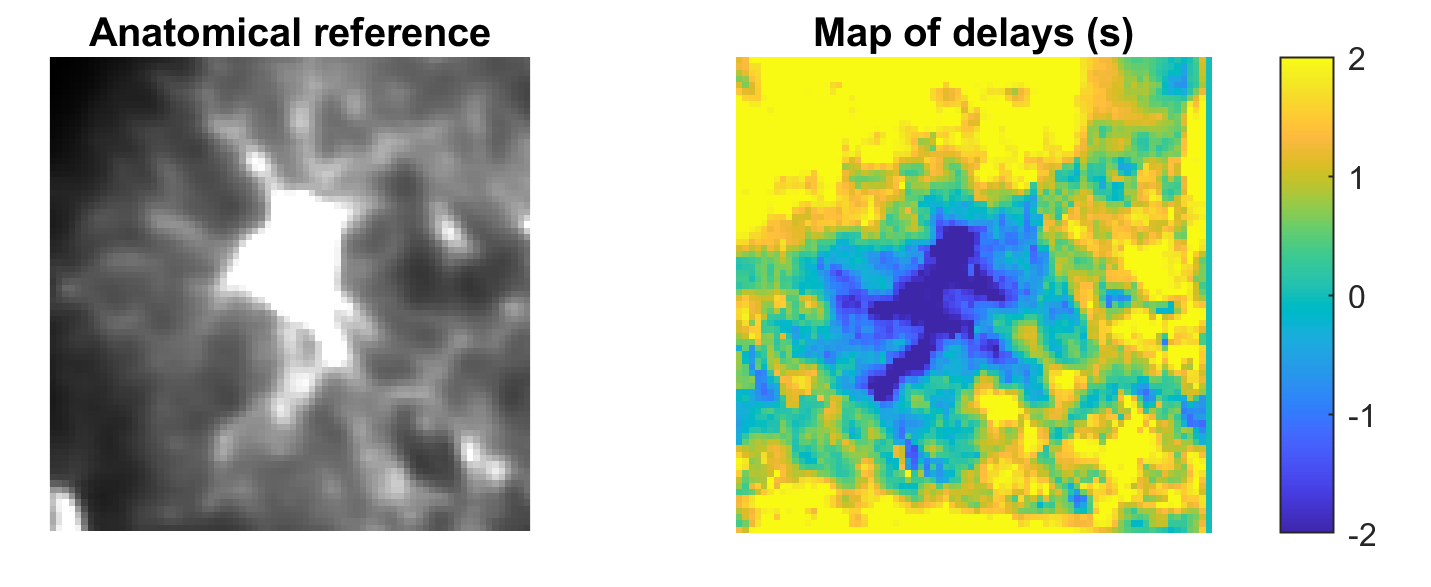
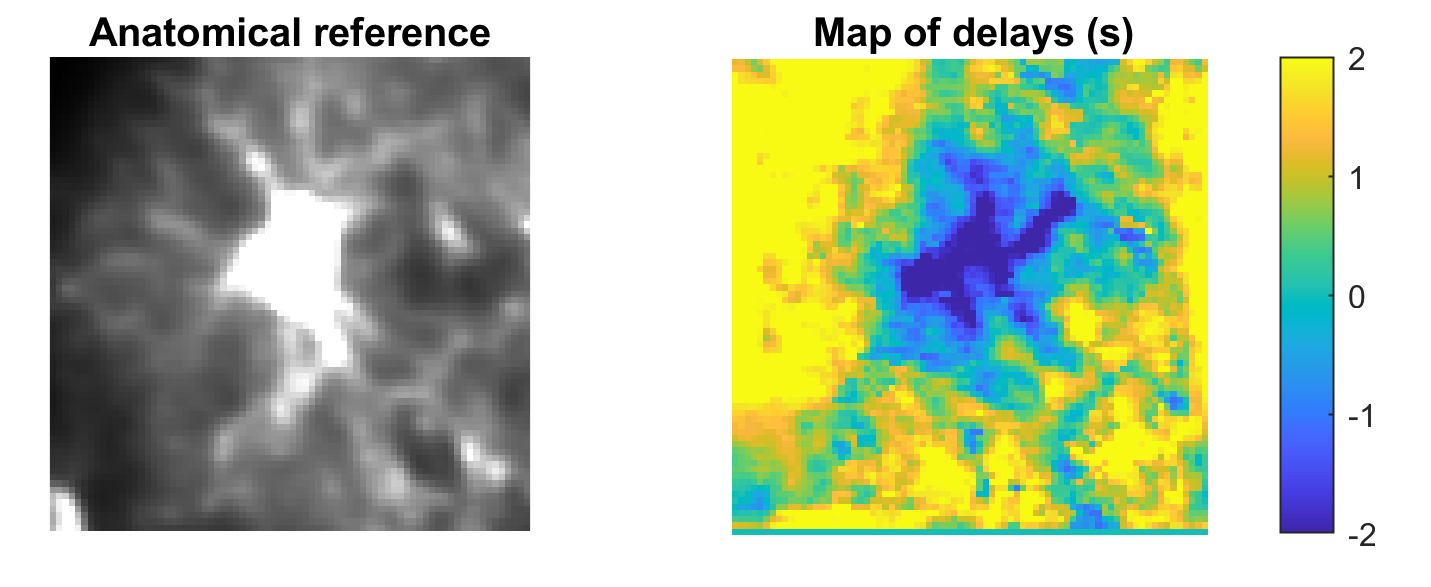
Remove a small bug in Matlab code

Changed region(s): [[0.492, 0.092, 0.8609, 0.9199]]

diff --git a/Demo_analysis_Matlab.m b/Demo_analysis_Matlab.m
@@ -27,7 +27,7 @@ clear Corr_maps_all
 for kkk = 1:numel(filenames)
     
     filename = fullfile(filenames(kkk).folder,filenames(kkk).name);
-    disp(['Computing delay map for',32,filenames(kkk).name],'.');
+    disp(['Computing delay map for',32,filenames(kkk).name,'.']);
 
     
     %% Read raw data from hard disk
@@ -73,12 +73,12 @@ for kkk = 1:numel(filenames)
     max_delay = 30; % in #frames; do increase value if the frame rate is higher
     
     Corr_map = zeros(size(movie,1),size(movie,2));
-    for j = 1:size(movie,2)
+    for j = 1:size(movie,1)
         % to speed up the program, replace the following line with this code: 
-        % parfor k = 1:size(movie,1) (requires parallel computing toolbox)
-        for k = 1:size(movie,1)
+        % parfor k = 1:size(movie,2)% (requires parallel computing toolbox)
+        for k = 1:size(movie,2)
             % extract time trace of this pixel
-            trace = squeeze( mean(mean(movie(k,j,:),1),2));
+            trace = squeeze( mean(mean(movie(j,k,:),1),2));
             % initialize cross_correlation vector
             cross_correlation = zeros(2*max_delay+1,1);
             for kk = -max_delay:max_delay
@@ -86,9 +86,9 @@ for kkk = 1:numel(filenames)
                 X = mean_activity;
                 Y = circshift(trace,[kk 0]);
                 if kk >= 0
-                    cross_correlation(kk+31) = corr(X(kk+1:end),Y(kk+1:end));
+                    cross_correlation(kk+max_delay+1) = corr(X(kk+1:end),Y(kk+1:end));
                 else
-                    cross_correlation(kk+31) = corr(X(1:end+kk),Y(1:end+kk));
+                    cross_correlation(kk+max_delay+1) = corr(X(1:end+kk),Y(1:end+kk));
                 end
             end
             % find peak of the cross-correlation
@@ -115,10 +115,12 @@ delay_map = mean(Corr_maps_all_concatenated,3)/framerate;
 
 
 %% Visualize results
-figure(77), imagesc(delay_map); colormap(parula); caxis([-2 2]); colorbar; axis equal off
+figure(77), imagesc(delay_map(:,:)); colormap(parula); caxis([-2 2]); colorbar; axis equal off
 title('Map of delays (s)')
+set(gcf,'color','w');
 
 figure(78), imagesc(ref_excerpt); colormap(gray); caxis([quantile(ref_excerpt(:),0.0) quantile(ref_excerpt(:),0.95)]); axis equal off
 title('Anatomical reference')
+set(gcf,'color','w');
 
 
